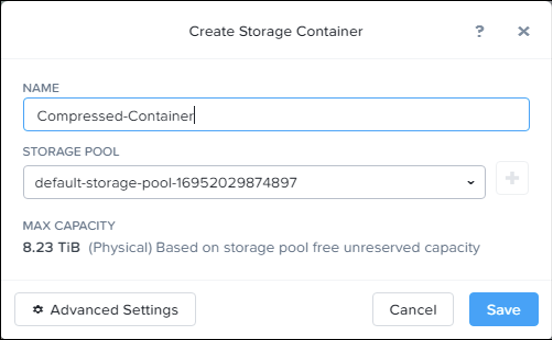
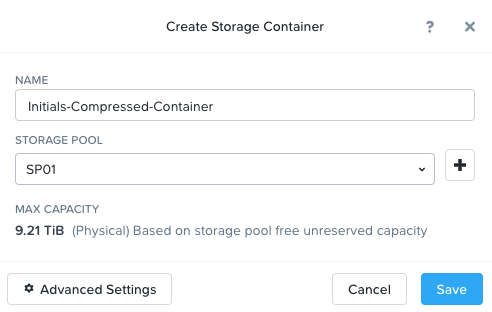
move lab updates

diff --git a/examplelab6/examplelab6.rst b/examplelab6/examplelab6.rst
@@ -19,7 +19,7 @@ In this exercise you will create a new storage container with compression enable
    .. figure:: images/1.png
 
 #. In the upper-right corner of the browser window, click **+ Storage Container**.
-#. In the **Create Storage Container** window, type: **<your initials>-Compressed-Container** in the **Name** field.
+#. In the **Create Storage Container** window, type: **Initials-Compressed-Container** in the **Name** field.
 
    .. figure:: images/2.png
 
@@ -37,7 +37,7 @@ In this exercise you will create a new storage container without compression.
 
 #. In the upper right corner of the browser window, click **+ Storage Container**.
 
-#. In the **Create Storage Container** window, type: **<your initials>-NotCompressed-Container** in the Name field.
+#. In the **Create Storage Container** window, type: **Intials-NotCompressed-Container** in the Name field.
 
 #. Click **Save**.
 
@@ -59,11 +59,11 @@ This exercise is composed of the following tasks:
 Adding Two Virtual Disks to a Virtual Machine
 ................................................
 
-In this task you will clone a Windows VM and add two virtual disks. One virtual disk will be placed in the **<your initials>-Compressed-Container** and the other into the **<your initials>-NotCompressed-Container**.
+In this task you will clone a Windows VM and add two virtual disks. One virtual disk will be placed in the **Initials-Compressed-Container** and the other into the **Initials-NotCompressed-Container**.
 
 #. From the **VM** dashboard, **Table** view, clone **Windows 2012 VM** VM.
 #. Select the VM and click the **Clone** link.
-#. Change the name of the clone to **DSF-<your initials>** and click Save.
+#. Change the name of the clone to **DSF-Initials** and click Save.
 #. Power on the new VM.
 #. Dynamically add a new disk. Select the new VM and click the **Update** link from the option below the virtual machine table and scroll down to the **Disks** section.
 #. Click **+ Add New Disk**.
@@ -72,7 +72,7 @@ In this task you will clone a Windows VM and add two virtual disks. One virtual 
    Type: **Disk**
    Operation: **Allocate on Storage Container**
    Bus Type: **SCSI**
-   Storage Container: **<your initials>-Compressed-Container**
+   Storage Container: **Intials-Compressed-Container**
    Size (GiB): **10**
    Index: **Next Available**
 
@@ -80,7 +80,7 @@ In this task you will clone a Windows VM and add two virtual disks. One virtual 
 
    .. figure:: images/4.png
 
-#. Repeat the previous steps to add a second **10GB** virtual disk to the virtual machine with the second virtual disk placed into the **<your initials>-NotCompressed-Container**.
+#. Repeat the previous steps to add a second **10GB** virtual disk to the virtual machine with the second virtual disk placed into the **Initials-NotCompressed-Container**.
 #. Click **Save**.
 #. Scroll down (if required) in the **VM** dashboard and at the lower left, under **VM DETAILS**, verify the VM is utilizing three containers:
 
@@ -93,7 +93,7 @@ Formatting the New Virtual Disks
 
 In this task you will format the newly added virtual disks in your Windows virtual machine so that you can write a large file to each of the new virtual disks.
 
-#. Select your **DSF-<your initials>** VM and click **Launch Console**.
+#. Select your **DSF-Initials** VM and click **Launch Console**.
 
 #. In the upper right corner of the virtual machine console window, click the **Ctl-Alt-Del** icon to log on to your virtual machine as **Administrator** with the password **(See Cluster Configuration Guide)**.
 
@@ -144,7 +144,7 @@ Writing a Large File to Each New Virtual Disk
 
 In this task you will write a large file to each of the new disks using the (DOS)utility **fsutil**.
 
-#. Go to the **VM** dashboard and click **Launch Console** of your **DSF-<your initials>** VM.
+#. Go to the **VM** dashboard and click **Launch Console** of your **DSF-Initials** VM.
 
 #. Login to the Windows Desktop with the same password is initially created by the base Windows. Go to the **magnify glass** found at the bottom left of the window and type **cmd**.
 
@@ -188,15 +188,15 @@ In this task you will observe the result of container compression.
 
 #. Click **Table**, then select **Storage Container**.
 
-#. For the **<your initials>-Compressed-Container** and the **<your initials>-NotCompressed-Container**, look in the **Used** column and compare the amount of physical space used.
+#. For the **Initials-Compressed-Container** and the **Initials-NotCompressed-Container**, look in the **Used** column and compare the amount of physical space used.
    * Do you see a difference?
 
-   The **<your initials>-Compressed-Container** should be using significantly less space than the **<your initials>-NotCompressed-Container**.
+   The **Initials-Compressed-Container** should be using significantly less space than the **Initials-NotCompressed-Container**.
 
    .. figure:: images/11.png
 
-#. Click to select the **<your initials>-Compressed-Container**.
-#. Below the table of containers, on the left of the browser window, examine the values below the **Summary > <your initials>-Compressed-Container** box and answer the following questions:
+#. Click to select the **Initials-Compressed-Container**.
+#. Below the table of containers, on the left of the browser window, examine the values below the **Summary > Initials-Compressed-Container** box and answer the following questions:
 
    * Is compression turned on?
    * How much space has been saved due to compression?
@@ -208,4 +208,4 @@ In this task you will observe the result of container compression.
    * What is the current Data Reduction Ratio?
    * What is the difference between the Compressed-Container and the NotCompressedContainer for the Data Reduction Ratio?
 
-#. From the **VM** dashboard, remove the **DSF-<your initials>** VM by selecting the VM from the list and clicking Delete. Check the box to **delete** all snapshots.
+#. From the **VM** dashboard, remove the **DSF-Initials** VM by selecting the VM from the list and clicking Delete. Check the box to **delete** all snapshots.

diff --git a/examplelab2/examplelab2.rst b/examplelab2/examplelab2.rst
@@ -18,15 +18,15 @@ In this exercise you will work individually to add a local (i.e. non-domain) use
 
    .. figure:: images/1.png
 
-#. Use the table below to complete the fields in the **Create User** window:
+#. Use the data below to complete the fields in the **Create User** window:
 
-   Field: **Value**
-   Username: **Your first name**
-   Last Name: **Your last name**
-   Email: **Your email address**
-   Password: **Use your full name with first letter capitalized and add /4u, eg:  Johnsmith/4u**
-   Language: **Your preferred language (e.g en-US)**
-   Roles: **Cluster Admin (You may need to scroll down)**
+   - Field: **Value**
+   - Username: **Your first name**
+   - Last Name: **Your last name**
+   - Email: **Your email address**
+   - Password: **Use your full name with first letter capitalized and add /4u, eg:  Johnsmith/4u**
+   - Language: **Your preferred language (e.g en-US)**
+   - Roles: **Cluster Admin (You may need to scroll down)**
 
 #. Click **Save**.
 

diff --git a/examplelab7/examplelab7.rst b/examplelab7/examplelab7.rst
@@ -22,12 +22,11 @@ Installing Move VM
 
 #. Click on **Upload Image** and enter the following values:
 
-   - **Name** Initials-MoveVM
+   - **Name** Initials-MoveImage
    - **Annotation** - (optional)
    - **Image Type** - Disk
-   - **Storage Container** - default-container-#########
-   - **From URL** -(Copy Download URL from `Nutanix Portal Downloads <https://portal.nutanix.com/page/downloads/list>`_
-   - **Alternative URL** - http://10.55.251.38/workshop_staging/move-3.6.0.qcow2
+   - **Storage Container** - SelfServiceContainer
+   - **URL** - http://10.42.194.11/workshop_staging/move-3.6.0.qcow2
 
 #. Once the image is ready, proceed to create Move VM
 
@@ -44,7 +43,7 @@ Installing Move VM
    - Select **+ Add New Disk**
    - **Type** - DISK
    - **Operation** - Clone from Image Service
-   - **Image** - CentOS7.qcow2
+   - **Image** - Initials-MoveImage
    - Select **Add**
 
    - Select **Add New NIC**

diff --git a/examplelab1/examplelab1.rst b/examplelab1/examplelab1.rst
@@ -197,7 +197,7 @@ In this task you will use the nCLI shell to answer the following questions.
 
    .. code-block::
 
-    ncli   
+    ncli
     <ncli> container list
 
 #. Refer to the storage container named **SelfServiceContainer** and answer the following questions:
@@ -262,7 +262,7 @@ In this task you will create and delete a storage container using nCLI.
 
    .. code-block:: ncli
 
-     <ncli> container create name=cli-lastname sp-name=default-storage-pool-#####
+     <ncli> container create name=cli-lastname sp-name=SP01
 
    .. note::
 
